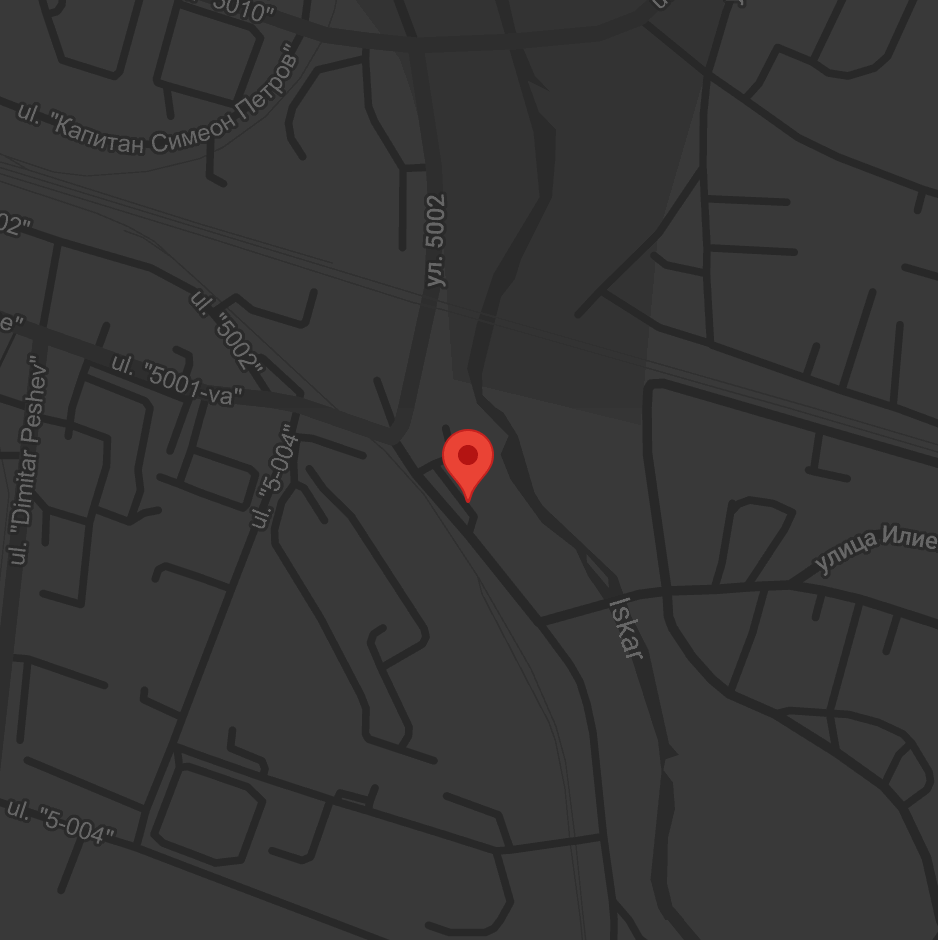
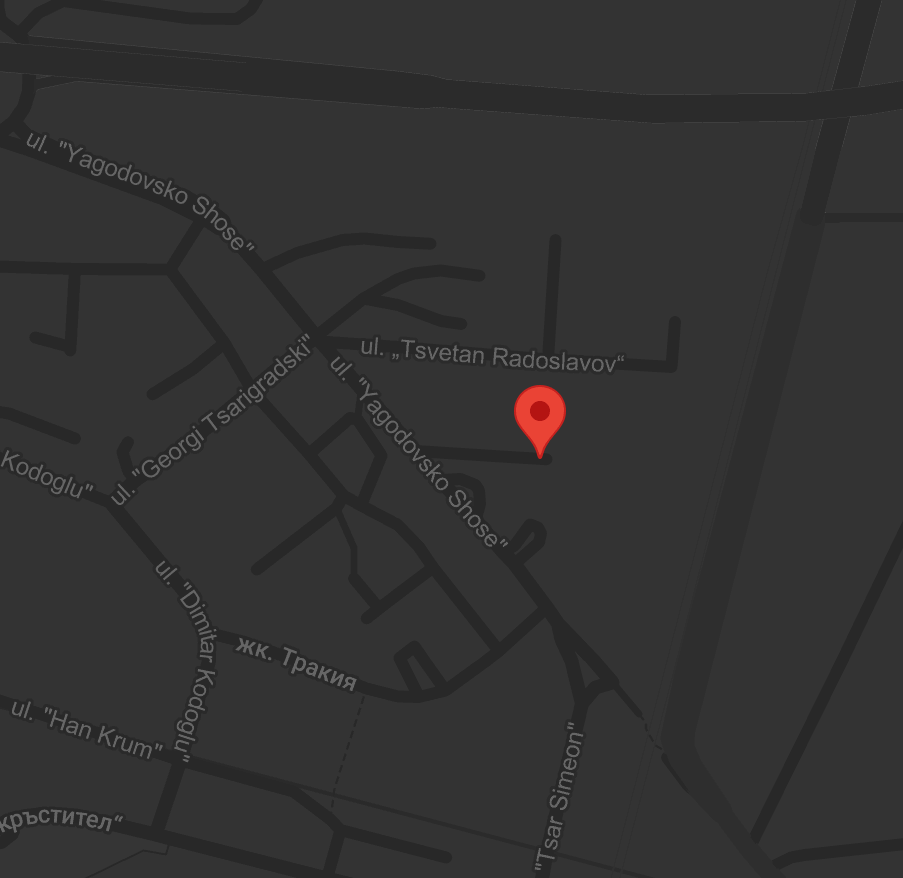
feat: new map and address

diff --git a/src/Components/Contact.tsx b/src/Components/Contact.tsx
@@ -3,91 +3,101 @@ import location from '../images/location.png'
 import { FaPhone, FaCity, FaLink } from 'react-icons/fa'
 import { FaLocationDot } from 'react-icons/fa6'
 import Animation from './Animation'
+import Link from 'next/link'
 
 export const labelStyles = 'text-2xl text-white'
 export const inputStyles =
-    'bg-accentDark text-lg outline-white p-3 rounded-lg w-[100%]'
+    'bg-accentDark text-lg outline-white p-3 rounded-md w-[100%]'
 export const Contact = () => {
     return (
-    <Animation maxW='3440px' moveY={120} opacity={0.6} start={0.7}>
-        <div
-            
-            className="relative max-w-[3440px] mx-auto w-full h-auto  bg-accent flex justify-center items-center"
-        >
-            <img
-            id='contact-form'
-        src="wave.svg"
-        className="object-cover h-[200px] absolute bottom-[99%] w-[100%]"
-      />
+        <Animation maxW='3440px' moveY={120} opacity={0.6} start={0.7}>
+            <div
 
-      {/* <img
+                className="relative max-w-[3440px] mx-auto w-full h-auto  bg-accent flex justify-center items-center"
+            >
+                <img
+                    id='contact-form'
+                    src="wave.svg"
+                    className="object-cover h-[200px] absolute bottom-[99%] w-[100%]"
+                />
+
+                {/* <img
         src="wave-8.svg"
         className=" object-cover rotate-180 absolute h-[150px] top-[98%] w-full"
       /> */}
-            <section className="w-full gap-2 lg:max-h-[600px] bg-accent rounded-lg max-w-7xl min-h-[70vh] flex-col lg:flex-row items-center flex justify-center">
-                <form className="text-white max-w-3xl font-normal w-full flex-1 h-full flex p-6 gap-3 flex-col justify-between items-start">
-                    <h2 className="text-3xl mb-auto font-bold">Свържете се с нас!</h2>
-                    <div className="text-white font-normal w-full flex-1 h-full gap-2 flex flex-col justify-evenly items-start">
-                        <FormPair>
-                            <label className={labelStyles}>Име:</label>
-                            <input type="text" className={inputStyles} />
-                        </FormPair>
-                        <FormPair>
-                            <label className={labelStyles}>Телефонен номер:</label>
-                            <input type="text" className={inputStyles} />
-                        </FormPair>
-                        <FormPair>
-                            <label className={labelStyles}>Запитване:</label>
-                            <input
-                                type="text"
-                                name="message"
-                                className={inputStyles}
-                            />
-                        </FormPair>
-                        <button className="transition duration-300 bg-white text-accent font-bold w-[30%] ml-auto rounded-lg px-4 py-2 mt-2  hover:bg-accentDark hover:text-white">
-                            Изпрати
-                        </button>
-                    </div>
-                    <section className="w-[100%] text-lg mt-auto flex-col gap-2 lg:flex-row py-2 border-t-2 border-accentDark font-extralight whitespace-nowrap flex justify-between items-start lg:items-center">
-                        <div className="flex flex-col gap-2 text-left justify-center items-start">
-                           
-                            <p className="font-extralight whitespace-nowrap flex items-center gap-2">
-                                <FaCity />
-                                жк. Дружба, София
-                            </p>
-                            <a
-                                className="font-extralight whitespace-nowrap flex cursor-pointer  no-underline items-center gap-2"
-                                target="_blank"
-                                href="https://www.google.com/maps/place/Автосервиз+Мисфайър+Misfire+Service,+NPZ+Iskar,+ul.+%225001-va%22+п.к.+25,+1528+Sofia/data=!4m2!3m1!1s0x40aa87fb134b59fd:0x774ef5f2cc3c7204?utm_source=mstt_1&entry=gps&g_ep=CAESCjExLjExOS4xMDEYACDXggMqJCw0NzA3NTkxNSw0NzA4NzExOCw0NzA4NDM4Nyw5NDIxMzE5NEICQkc%3D"
-                            >
-                                <FaLocationDot /> ул. 5001 <FaLink />
-                            </a>
-
-                            <a
-                                target="_blank"
-                                href="tel:097648567539"
-                                className="font-extralight whitespace-nowrap cursor-pointer flex items-center gap-2"
-                            >
-                                <FaPhone /> 097648567539 <FaLink />
-                            </a>
+                <section className="w-full gap-2 lg:max-h-[600px] bg-accent rounded-lg max-w-7xl min-h-[70vh] flex-col lg:flex-row items-center flex justify-center">
+                    <form className="text-white max-w-3xl font-normal w-full flex-1 h-full flex p-6 gap-3 flex-col justify-between items-start">
+                        <h2 className="text-3xl mb-auto font-bold">Свържете се с нас!</h2>
+                        <div className="text-white font-normal w-full flex-1 h-full gap-2 flex flex-col justify-evenly items-start">
+                            <FormPair>
+                                <label className={labelStyles}>Име:</label>
+                                <input type="text" className={inputStyles} />
+                            </FormPair>
+                            <FormPair>
+                                <label className={labelStyles}>Телефонен номер:</label>
+                                <input type="text" className={inputStyles} />
+                            </FormPair>
+                            <FormPair>
+                                <label className={labelStyles}>Запитване:</label>
+                                <input
+                                    type="text"
+                                    name="message"
+                                    className={inputStyles}
+                                />
+                            </FormPair>
+                            <button className="transition duration-300 bg-white text-accent font-bold w-[30%] ml-auto rounded-md px-4 py-2 mt-2  hover:bg-accentDark hover:text-white">
+                                Изпрати
+                            </button>
                         </div>
-                        <div className="flexflex-col text-left justify-center gap-2 items-start">
-                            <p className="text-xl font-bold whitespace-nowrap">Работно време:</p>
-                            <p className='font-extralight whitespace-nowrap opacity-90'>Понеделник-Петък: 10:00-20:00</p>
-                            <p className='font-extralight whitespace-nowrap opacity-90'>Събота: 10:00-14:00</p>
-                            <p className='font-extralight whitespace-nowrap opacity-90'>Неделя: Затворено</p>
-                        </div>
-                    </section>
-                </form>
-                    <img
-                        src='/location.png'
-                        className="object-cover hidden lg:block bg-transparent rounded-blob max-h-[500px] h-[80%]"
-                        alt="location"
-                    />
-            </section>
+                    <Link target='_blank' className='w-full mt-6' href='https://www.google.com/maps/place/Теди+снакс/@42.1446234,24.8017632,18z/data=!4m6!3m5!1s0x14acd1e8da946b17:0xa8f6964e940d48c5!8m2!3d42.1446477!4d24.8031488!16s%2Fg%2F11j600hyzq?entry=ttu'>
+                        <img
+                            src='/location.png'
+                            className="object-cover mx-auto lg:hidden  mb-6 bg-transparent rounded-blob hover:rounded-blobHover max-h-[450px] transition-all duration-300 hover:scale-105 cursor-pointer h-[80%]"
+                            alt="location"
+                        />
+                    </Link>
+                        <section className="w-[100%] text-lg mt-auto flex-col gap-2 lg:flex-row py-2 border-t-2 border-accentDark font-extralight whitespace-nowrap flex justify-between items-start lg:items-center">
+                            <div className="flex flex-col gap-2 text-left justify-center items-start">
 
-        </div>
-                </Animation>
+                                <p className="font-extralight whitespace-nowrap flex items-center gap-2">
+                                    <FaCity />
+                                    жк. Тракия, Пловдив
+                                </p>
+                                <a
+                                    className="font-extralight whitespace-nowrap flex cursor-pointer  no-underline items-center gap-2"
+                                    target="_blank"
+                                    href="https://www.google.com/maps/place/Автосервиз+Мисфайър+Misfire+Service,+NPZ+Iskar,+ul.+%225001-va%22+п.к.+25,+1528+Sofia/data=!4m2!3m1!1s0x40aa87fb134b59fd:0x774ef5f2cc3c7204?utm_source=mstt_1&entry=gps&g_ep=CAESCjExLjExOS4xMDEYACDXggMqJCw0NzA3NTkxNSw0NzA4NzExOCw0NzA4NDM4Nyw5NDIxMzE5NEICQkc%3D"
+                                >
+                                    <FaLocationDot />Ягодовско шосе 17 <FaLink />
+                                </a>
+
+                                <a
+                                    target="_blank"
+                                    href="tel:097648567539"
+                                    className="font-extralight whitespace-nowrap cursor-pointer flex items-center gap-2"
+                                >
+                                    <FaPhone /> 097648567539 <FaLink />
+                                </a>
+                            </div>
+                            <div className="flexflex-col text-left justify-center gap-2 items-start">
+                                <p className="text-xl font-bold whitespace-nowrap">Работно време:</p>
+                                <p className='font-extralight whitespace-nowrap opacity-90'>Понеделник-Петък: 10:00-20:00</p>
+                                <p className='font-extralight whitespace-nowrap opacity-90'>Събота: 10:00-14:00</p>
+                                <p className='font-extralight whitespace-nowrap opacity-90'>Неделя: Затворено</p>
+                            </div>
+                        </section>
+                    </form>
+                     <Link target='_blank' href='https://www.google.com/maps/place/Теди+снакс/@42.1446234,24.8017632,18z/data=!4m6!3m5!1s0x14acd1e8da946b17:0xa8f6964e940d48c5!8m2!3d42.1446477!4d24.8031488!16s%2Fg%2F11j600hyzq?entry=ttu'>
+                        <img
+                            src='/location.png'
+                            className="object-cover hidden lg:block mb-6 bg-transparent rounded-blob hover:rounded-blobHover max-h-[450px] transition-all duration-300 hover:scale-105 cursor-pointer h-[80%]"
+                            alt="location"
+                        />
+                    </Link>
+                </section>
+
+            </div>
+        </Animation>
     )
 }
 export const FormPair = ({ children }: { children: ReactNode }) => {

diff --git a/src/Components/TuningHero.tsx b/src/Components/TuningHero.tsx
@@ -58,7 +58,7 @@ const TuningHero = () => {
       <span className="absolute text-white top-0 left-[50%] translate-x-[-50%] border-white z-20 bg-transparent mx-auto mt-6 flex-col h-[90%] w-[90%] max-w-7xl flex items-center justify-center">
         <motion.h1 initial="hidden" animate="visible" variants={h1Variants} className="text-h1clamp text-center font-semibold text-white">Тунинг</motion.h1>
         <motion.p initial="hidden" animate="visible" variants={h2Variants} className='w-[90%] text-center opacity-75 md:w-[55%]'>
-          Тунингът подобрява производителността, увеличава горивната ефективност, подобрява шофьорското изживяване, увеличава мощността на двигателя и позволява персонализиране според личните предпочитания, водещо до по-отзивчив и приятен автомобил.
+          Тунингът подобрява производителността, увеличава горивната ефективност, подобрява шофьорското изживяване, увеличава мощността на двигателя, което води до по-отзивчив и приятен автомобил.
         </motion.p>
       </span>        {/* <img className="w-full opacity-35 object-cover" src='/heartline-turbo.png'/> */}
 

diff --git a/src/Components/Footer.tsx b/src/Components/Footer.tsx
@@ -9,7 +9,7 @@ const Footer = () => {
       <div className="max-w-7xl mx-auto flex flex-col md:flex-row justify-between items-center">
         <div className="mb-4 flex-1 w-full md:mb-0 text-center md:text-left">
           <h2 className="text-2xl font-semibold">Misfire</h2>
-          <p className="text-sm opacity-65">© 2024 Misfire. All rights reserved.</p>
+          <p className="text-sm opacity-65">© 2024 Автосервиз Misfire. All rights reserved.</p>
         </div>
         <div className="flex flex-col justify-center items-center flex-1 w-full mb-4 md:mb-0">
             <h2 className='font-bold mb-1 text-lg'>Полезни линкове</h2>
@@ -17,7 +17,6 @@ const Footer = () => {
           <Link href="/" className="hover:text-accent transition duration-300">Начало</Link>
           <Link href="/tuning" className="whitespace-nowrap hover:text-accent transition duration-300">Тунинг</Link>
           <Link href="/towing" className="whitespace-nowrap hover:text-accent transition duration-300">Пътна помощ</Link>
-          <Link href="/wheels" className="whitespace-nowrap hover:text-accent transition duration-300">Гуми & Джанти</Link>
             </div>
         </div>
         <div className="flex flex-1 w-full justify-center md:justify-end items-center gap-4">

diff --git a/src/Components/TuningServices.tsx b/src/Components/TuningServices.tsx
@@ -7,7 +7,7 @@ const TuningServices: React.FC = () => {
   return (
     <section className="my-6 w-full max-w-7xl mx-auto px-4 grid grid-cols-1 md:grid-cols-2 gap-2">
         <Animation>
-        <div className="bg-backgroundDark p-4 bg-opacity-45 min-h-[600px] rounded-lg text-white shadow-lg flex flex-col">
+        <div className="bg-backgroundDark z-20 relative p-4 bg-opacity-45 min-h-[600px] rounded-lg text-white shadow-lg flex flex-col">          
           <img
             src="/img1.webp"
             className="object-cover w-full rounded-t-lg h-64 mb-6"
@@ -54,7 +54,7 @@ const TuningServices: React.FC = () => {
         </div>
         </Animation>
         <p className="col-span-1 md:col-span-2 text-white my-4 text-lg text-center">
-          За повече информация и персонализирани решения <Link className="underline text-accent" href='/#contact-form'>направете запитване</Link>
+          За повече информация и персонализирани решения <Link className="underline trnasition duration-300 hover:text-accent" href='/#contact-form'>направете запитване</Link>
         </p>
       </section>
   );

diff --git a/src/Components/About.tsx b/src/Components/About.tsx
@@ -596,7 +596,7 @@ export const About = () => {
                                 Вашата кола заслужава най-доброто, а ние сме най-добрите
                             </h2>
                             <p className="mb-5 bg-transparent opacity-75">
-                               Предлагаме професионални услуги, гаранция за качество и конкурентни цени. Ако се доверите на нашия опит и знания с вашия автомобил, Вие ще искате да се върнете, но авотмобила ви няма да ви дава повод.
+                               Предлагаме професионални услуги, гаранция за качество и конкурентни цени. Ако се доверите на нашия опит и знания с вашия автомобил, Вие ще искате да се върнете, но автoмобила ви няма да ви дава повод.
                             </p>
 
                         </div>

diff --git a/src/Components/Navbar.tsx b/src/Components/Navbar.tsx
@@ -53,12 +53,6 @@ export function Navbar({ }) {
                                 Пътна помощ
                         </Link>
                     </li>
-                    <li className={liStyles}>
-                        <Link className={navBtnStyle} onClick={()=>setNav(false)} href="/towing">
-                                Сервиз Гуми 
-                        </Link>
-                    </li>
-                
                 </ul>
             </div>
         </nav>

diff --git a/tailwind.config.ts b/tailwind.config.ts
@@ -26,6 +26,7 @@ const config: Config = {
       },
             borderRadius: {
                 blob: '25% 75% 35% 65% / 60% 23% 77% 40%',
+                blobHover: '35% 65% 32% 60% / 65% 27% 67% 50%',
             },
             backgroundImage: {
                 hero: "url('/src/images/hero.jpg')",
